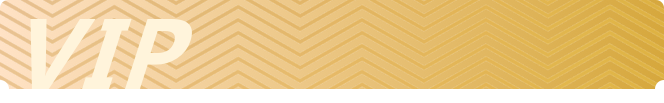
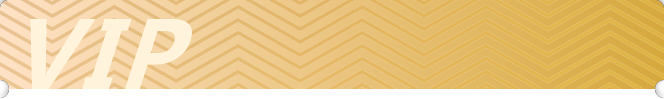
Modify time format

diff --git a/src/components/list.vue b/src/components/list.vue
@@ -58,7 +58,7 @@ export default {
   },
   methods: {
     getList () {
-      const params = Number(this.tab) !== 0 ? { state: this.tab } : {}
+      const params = Number(this.tab) !== 0 ? { state: '1,3' } : {}
       axios({
         method:'get',
         url: `/api/employee/appointments`,
@@ -66,14 +66,14 @@ export default {
         headers: {'X-Token': 'e9c989a9-d920-4133-9157-50059a74a503'},
       }).then(({data}) => {
         if ( data.length > 0) {
-         this.list = data
+          this.list = data
+          for (var i =0; i < this.list.length; i++ ) {
+            this.list[i].start_time = new Date(+new Date(this.list[i].start_time)+8*3600*1000).toISOString().replace(/T/g,' ').replace(/\.[\d]{3}Z/,'')
+            this.list[i].end_time = new Date(+new Date(this.list[i].end_time)+8*3600*1000).toISOString().replace(/T/g,' ').replace(/\.[\d]{3}Z/,'')
+          }
         }
         
       })
-    },
-    getTime (e) {
-      let time = utils.parseTime(e, 'yyyy-MM-dd hh:mm');
-      return time;
     },
     showPermit(e) {
       e.stopPropagation();
@@ -95,7 +95,7 @@ export default {
   .card-header {
     height: 45px;
     width: 100%;
-    background: url("../assets/images/vip.png") #DDDDDD no-repeat;
+    background: url("../assets/images/vip.png") no-repeat;
     background-size: 100% 45px; 
     border-top-left-radius: 6px;
     border-top-right-radius: 6px;

diff --git a/src/views/myReservation.vue b/src/views/myReservation.vue
@@ -3,34 +3,18 @@
     <!-- tabs -->
     <mt-navbar class="tab" v-model="selected">
       <mt-tab-item class="tab-til" id="0">全部</mt-tab-item>
-      <mt-tab-item class="tab-til" id="1">待审核</mt-tab-item>
-      <mt-tab-item class="tab-til" id="2">拒绝</mt-tab-item>
-      <mt-tab-item class="tab-til" id="3">通过</mt-tab-item>
-      <mt-tab-item class="tab-til" id="4">已完成</mt-tab-item>
+      <mt-tab-item class="tab-til" id="1">待处理</mt-tab-item>
     </mt-navbar>
 
     <mt-tab-container v-model="selected" :swipeable='true'>
-      <!-- 待审核内容 -->
+      <!-- 全部 -->
       <mt-tab-container-item id="0">
         <List tab="0" />
       </mt-tab-container-item>
 
+      <!-- 待处理 -->
       <mt-tab-container-item id="1">
         <List tab="1" />
-      </mt-tab-container-item>
-
-      <!-- 待放行内容 -->
-      <mt-tab-container-item id="2">
-        <List tab="2" />
-      </mt-tab-container-item>
-
-      <!-- 已放行内容 -->
-      <mt-tab-container-item id="3">
-        <List tab="3" />
-      </mt-tab-container-item>
-
-      <mt-tab-container-item id="4">
-        <List tab="4" />
       </mt-tab-container-item>
     </mt-tab-container>
 

diff --git a/src/views/auditDetail.vue b/src/views/auditDetail.vue
@@ -69,6 +69,8 @@ export default {
         headers: {'X-Token': 'e9c989a9-d920-4133-9157-50059a74a503'},
       }).then(({data}) => {
         this.detailInfo = data
+        this.detailInfo.start_time = new Date(+new Date(this.detailInfo.start_time)+8*3600*1000).toISOString().replace(/T/g,' ').replace(/\.[\d]{3}Z/,'')
+        this.detailInfo.end_time = new Date(+new Date(this.detailInfo.end_time)+8*3600*1000).toISOString().replace(/T/g,' ').replace(/\.[\d]{3}Z/,'')
       })
     },
     viaModal () {

diff --git a/src/components/details.vue b/src/components/details.vue
@@ -168,7 +168,7 @@ export default {
         color: #D8A950;
       }
       .details-time {
-        width: 70px;
+        width: 80px;
         text-align: center;
         font-weight: bold;
         .details-timeDesc {
@@ -249,6 +249,7 @@ export default {
           top: 0;
           left: 4px;
           color: #fff;
+          font-size: 12px;
         }
       }
       // 信息内容
